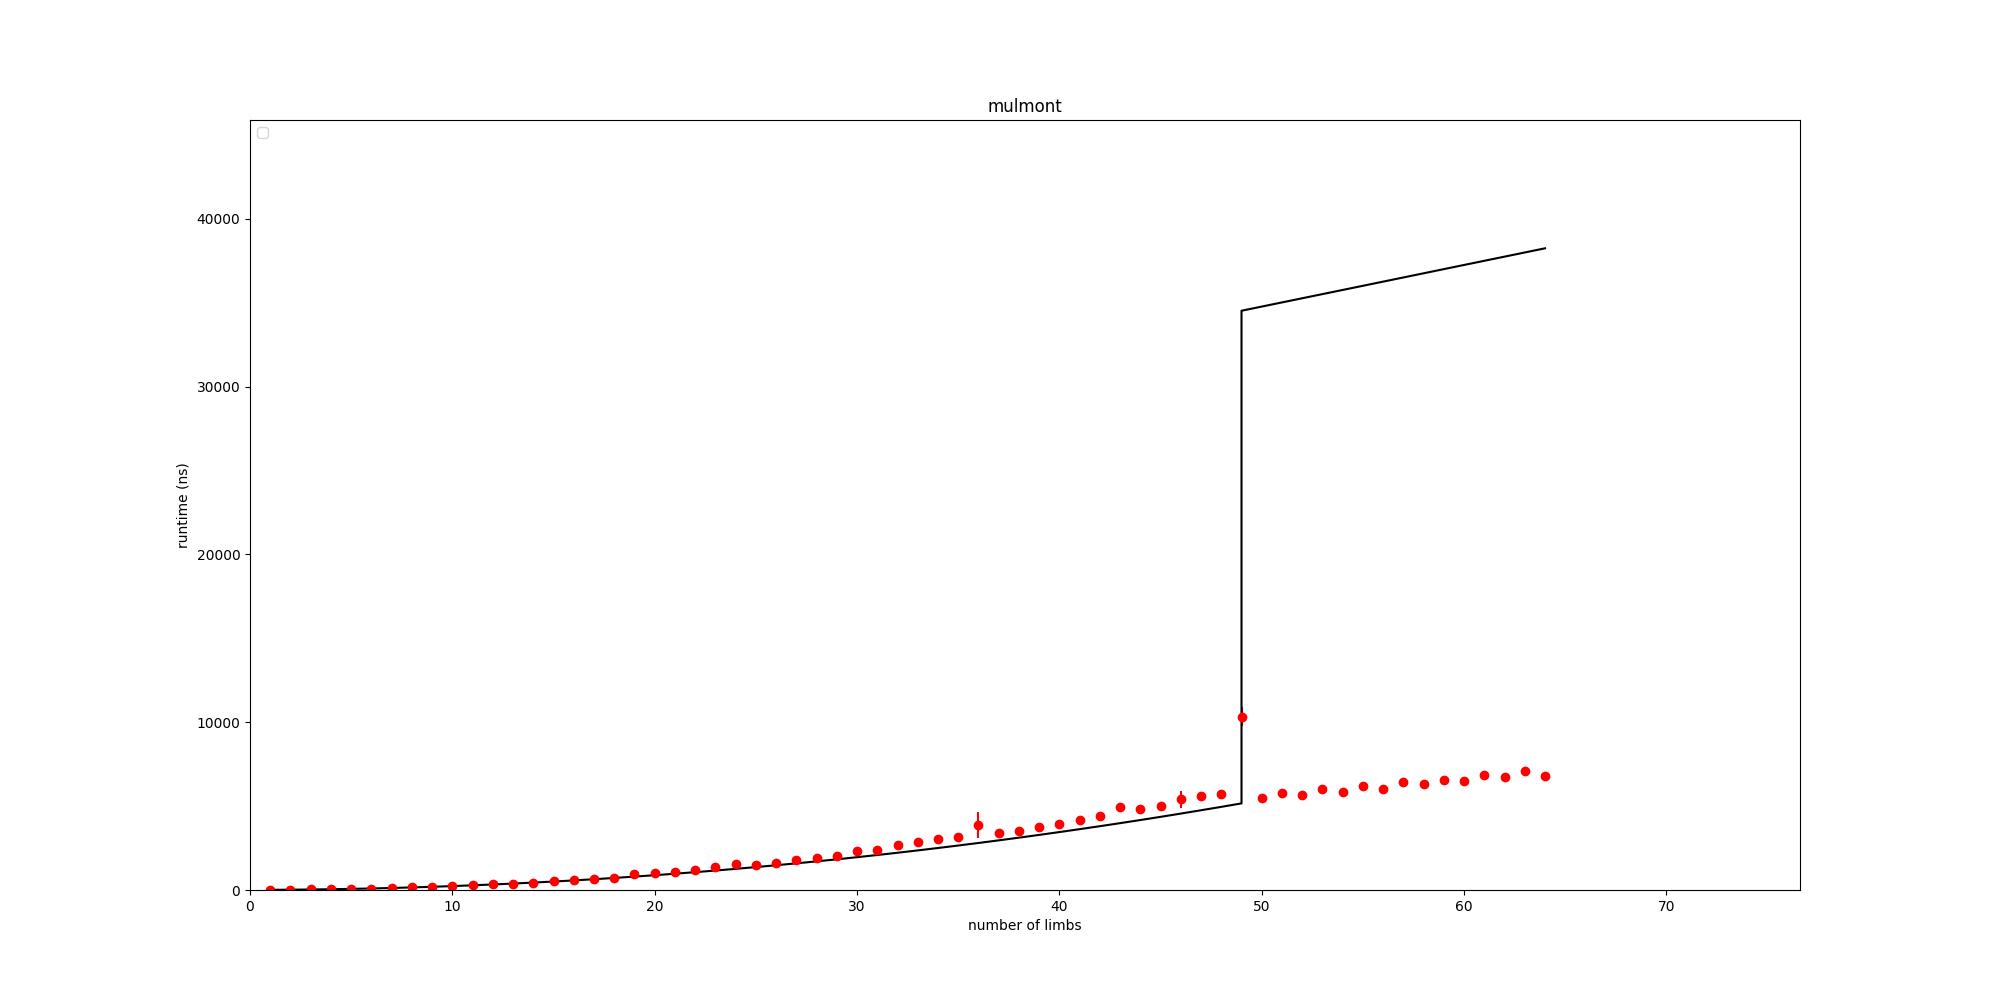
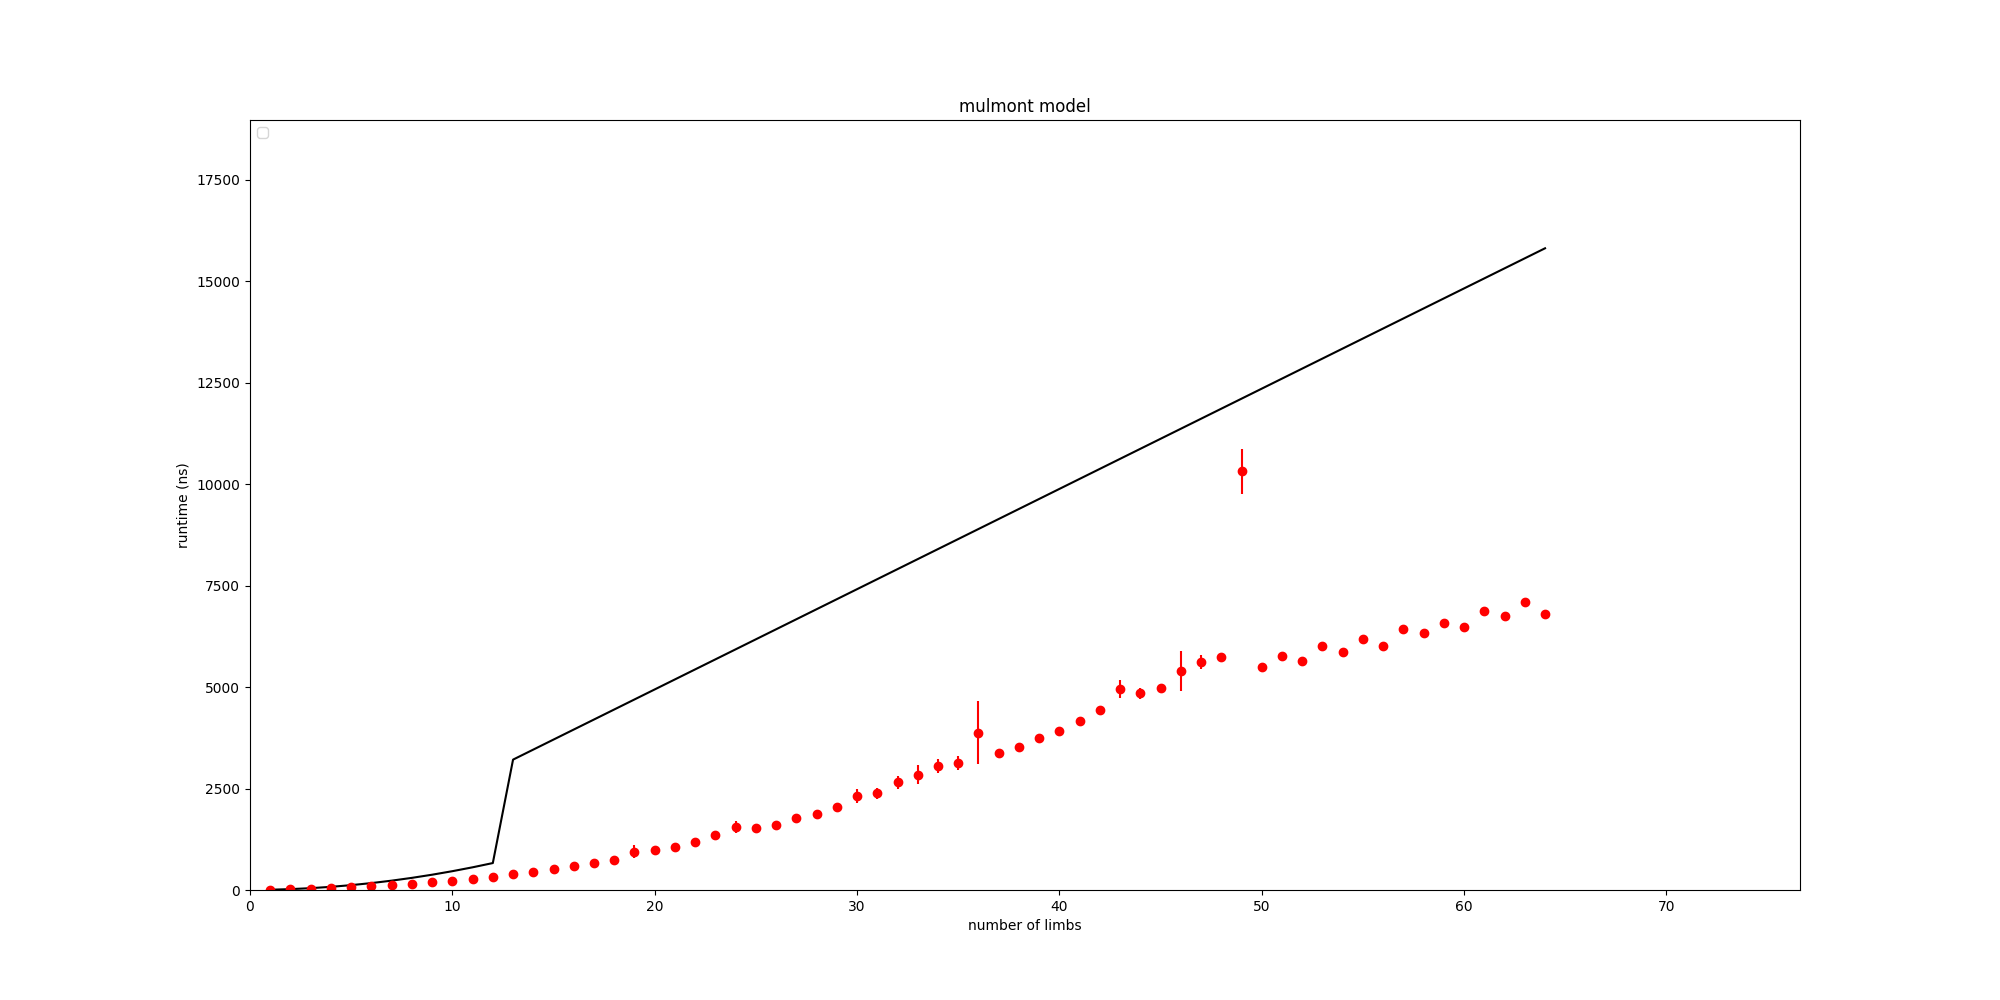
wip

diff --git a/plot.py b/plot.py
@@ -149,15 +149,16 @@ def scatterplot_ns_data(fname: str, name: str, graph_range, annotates: [bool], m
 
     plt.savefig(fname)
 
-def fit_quadratic(input_range, output_range, graphing_dataset, intercept_min):
+def fit_quadratic(input_range, dataset, intercept_min):
     xs = []
     ys = []
 
-    for i, x_val in enumerate(graphing_dataset[1]):
-        if x_val < input_range[0] or x_val > input_range[1]:
+    for x in dataset.keys():
+        if x < input_range[0] or x > input_range[1]:
             continue
-        xs.append(x_val)
-        ys.append(graphing_dataset[2][i])
+
+        xs.append(x)
+        ys.append(dataset[x]['mean'])
 
     eqn = np.polyfit(np.array(xs), np.array(ys), 2)
     eqn = [round(val, 2) for val in eqn]
@@ -170,19 +171,18 @@ def fit_quadratic(input_range, output_range, graphing_dataset, intercept_min):
         if new_intercept > 0:
             eqn[2] = new_intercept
         
-    lof_x = [x for x in range(output_range[0], output_range[1] + 1)]
-    lof_y = [round(x ** 2 * eqn[0] + x * eqn[1] + eqn[2]) for x in range(output_range[0], output_range[1] + 1)]
-    return eqn, list(zip(lof_x, lof_y))
+    return eqn
 
-def fit_linear(input_range, output_range, graphing_dataset, intercept_min):
+def fit_linear(input_range, dataset, intercept_min):
     xs = []
     ys = []
 
-    for i, x_val in enumerate(graphing_dataset[1]):
-        if x_val < input_range[0] or x_val > input_range[1]:
+    for x in dataset.keys():
+        if x < input_range[0] or x > input_range[1]:
             continue
-        xs.append(x_val)
-        ys.append(graphing_dataset[2][i])
+
+        xs.append(x)
+        ys.append(dataset[x]['mean'])
 
     eqn = np.polyfit(np.array(xs), np.array(ys), 1)
     eqn = [round(val, 2) for val in eqn]
@@ -203,9 +203,7 @@ def fit_linear(input_range, output_range, graphing_dataset, intercept_min):
         if intercept > 0:
             eqn[1] = intercept
 
-    lof_x = [x for x in range(output_range[0], output_range[1] + 1)]
-    lof_y = [x * eqn[0] + eqn[1] for x in range(output_range[0], output_range[1] + 1)]
-    return eqn, list(zip(lof_x, lof_y))
+    return eqn
 
 def stitch_model(model1, model2, cutoff: int):
     result = []
@@ -251,7 +249,7 @@ def prep_models_for_graphing(models, name, xs):
             ys.append(y)
             x_idx += 1
     
-    return (min(xs), max(xs), xs, ys, 'black', name, 'o')
+    return ((min(xs), max(xs)), xs, ys, [], 'black', name, 'o')
 
 # def prep_model_data_for_graphing(model, name, plot_range):
 #     return (plot_range, [item[0] for item in model if item[0] <= plot_range[1] and item[0]  >= plot_range[0]], [item[1] for item in model if item[0] <= plot_range[1] and item[0]  >= plot_range[0]], [], 'black', name, 'o')
@@ -324,20 +322,30 @@ setmod_generic_data = format_bench_data_for_graphing((1, 100000), go_arith_bench
 
 # linear cost for setmod up to cutoff
 # setmod_low_eqn, setmod_low_cost = fit_linear((1, 32), (1, fast_mulmont_cutoff), setmod_non_unrolled_data, False)
-setmod_eqn, setmod_model = fit_linear((1, 16), (1, 100000), setmod_generic_data, True)
+#import pdb; pdb.set_trace()
+setmod_eqn = fit_linear((1, 16), go_arith_benchmarks['setmod']['generic'], True)
 # setmod_model = stitch_model(setmod_low_cost, setmod_high_cost, fast_mulmont_cutoff)
 
-mulmont_evmmax = stitch_data(go_arith_benchmarks['mulmont']['non-unrolled'], go_arith_benchmarks['mulmont']['generic'], fast_mulmont_cutoff)
+#mulmont_evmmax = stitch_data(go_arith_benchmarks['mulmont']['non-unrolled'], go_arith_benchmarks['mulmont']['generic'], fast_mulmont_cutoff)
+
 # setmod_evmmax = stitch_data(go_arith_benchmarks['setmod']['non-unrolled'], go_arith_benchmarks['setmod']['generic'], fast_mulmont_cutoff)
 
-mulmont_eqn_low, mulmont_cost_low = fit_quadratic((1, 12), (1, fast_mulmont_cutoff), mulmont_evmmax, True)
-mulmont_eqn_hi, mulmont_cost_hi = fit_quadratic((fast_mulmont_cutoff, 10000), (fast_mulmont_cutoff, 10000), mulmont_evmmax, True)
-mulmont_model = stitch_model(mulmont_cost_low, mulmont_cost_hi, fast_mulmont_cutoff)
+mulmont_evmmax_low = go_arith_benchmarks['mulmont']['non-unrolled']
+mulmont_evmmax_hi = go_arith_benchmarks['mulmont']['generic']
+
+mulmont_eqn_low = fit_quadratic((1, 12), mulmont_evmmax_low, True)
+mulmont_eqn_hi = fit_quadratic((fast_mulmont_cutoff, 10000), mulmont_evmmax_hi, True)
+
+#mulmont_model = stitch_model(mulmont_cost_low, mulmont_cost_hi, fast_mulmont_cutoff)
+benches_xs = list(sorted(set(list(mulmont_evmmax_low.keys()) + list(mulmont_evmmax_hi.keys()))))
+mulmont_model = prep_models_for_graphing([(mulmont_eqn_low, 12), (mulmont_eqn_hi, 100000)], 'mulmont model', benches_xs)
+
+mulmont_evmmax = stitch_data(go_arith_benchmarks['mulmont']['non-unrolled'], go_arith_benchmarks['mulmont']['generic'], fast_mulmont_cutoff)
+scatterplot_ns_data("charts/mulmontmax_all.png", "mulmontmax arithmetic benchmarks with gas model", (1, 100000), [False, False], ["o", "-"], [mulmont_evmmax, mulmont_model])
+scatterplot_ns_data("charts/mulmontmax_cutoff.png", "MULMONTMAX Arithmetic Benchmarks with Gas Model", (1, 64), [False, False], ["o", "-"], [mulmont_evmmax, mulmont_model])
+scatterplot_ns_data("charts/mulmontmax_low.png", "mulmontmax arithmetic benchmarks with gas model", (1, 16), [False, False], ["o", "-"], [mulmont_evmmax, mulmont_model])
 
 import pdb; pdb.set_trace()
-
-# mulmont_eqn_low = 
-
 
 # mulmont_eqn_low = 
 # TODO addmod/submod with model on graph
@@ -349,9 +357,6 @@ scatterplot_ns_data("charts/addmodx_low.png", "addmodx low limbs", (1, 12), [Fal
 scatterplot_ns_data("charts/addmodx_med.png", "addmodx medium limbs", (1, 100), [False, False], ["o", 'o'], [submod_generic_data, addmod_generic_data])
 scatterplot_ns_data("charts/addmodx_all.png", "addmodx all limbs", (1, 100000), [False, False], ["o", 'o'], [submod_generic_data, addmod_generic_data])
 
-mulmont_evmmax_model_graphing_data = prep_model_data_for_graphing(mulmont_model, 'mulmont', (1, 100000))
-scatterplot_ns_data("charts/mulmontmax_all.png", "MULMONTMAX Arithmetic Benchmarks with Gas Model", (1, 100000), [False, False], ["o", "-"], [mulmont_evmmax, mulmont_evmmax_model_graphing_data])
-scatterplot_ns_data("charts/mulmontmax_cutoff.png", "MULMONTMAX Arithmetic Benchmarks with Gas Model", (1, 64), [False, False], ["o", "-"], [mulmont_evmmax, mulmont_evmmax_model_graphing_data])
 
 setmod_evmmax_model_graphing_data = prep_model_data_for_graphing(setmod_model, "setmod", (1, 10000))
 scatterplot_ns_data("charts/setmodmax_all.png", "SETMODMAX model", (1, 100000), [False, False], ["o", "-"], [setmod_generic_data, setmod_evmmax_model_graphing_data])
